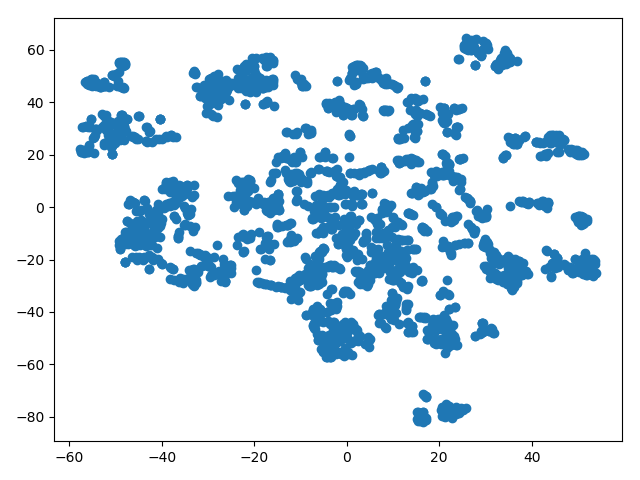
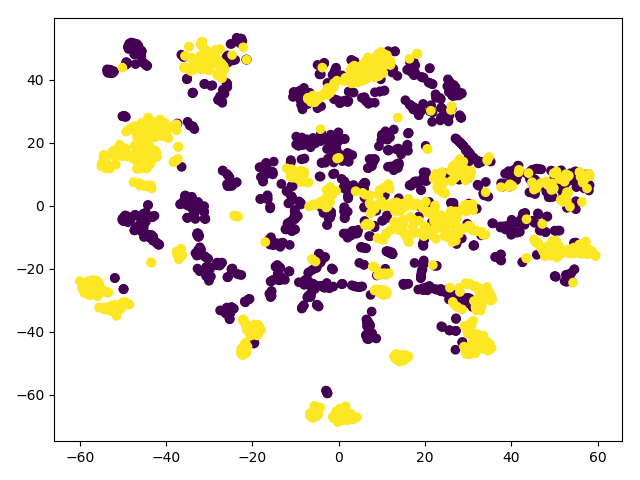
changed tsne graph to show two classes

diff --git a/mf_gmm/code/tsne_analysis.py b/mf_gmm/code/tsne_analysis.py
@@ -147,6 +147,7 @@ labels = {'BOAT_N': BOAT_N, 'HELI_N': HELI_N};
 path_params = {'boat_train_ctl_name': boat_train_ctl_name, 'heli_train_ctl_name': heli_train_ctl_name, 'ctlset_path': ctlset_path};
 train_data = gmm_t.read_train_data(data_params, path_params, labels);
 feat_read = train_data['train_feat_read'];
+labels_train = train_data['labels_train'];
 
 TRAIN=0;
 if TRAIN:
@@ -165,6 +166,6 @@ else:
 pca_feat = pca.transform(feat_read);
 feat_embedded = TSNE(n_components=2).fit_transform(pca_feat)
 
-plt.scatter(feat_embedded[:, 0], feat_embedded[:, 1], cmap=plt.cm.Spectral);
+plt.scatter(feat_embedded[:, 0], feat_embedded[:, 1], c = labels_train);
 plt.tight_layout();
 plt.savefig('../vis/tsne-gmm-spec.png');
